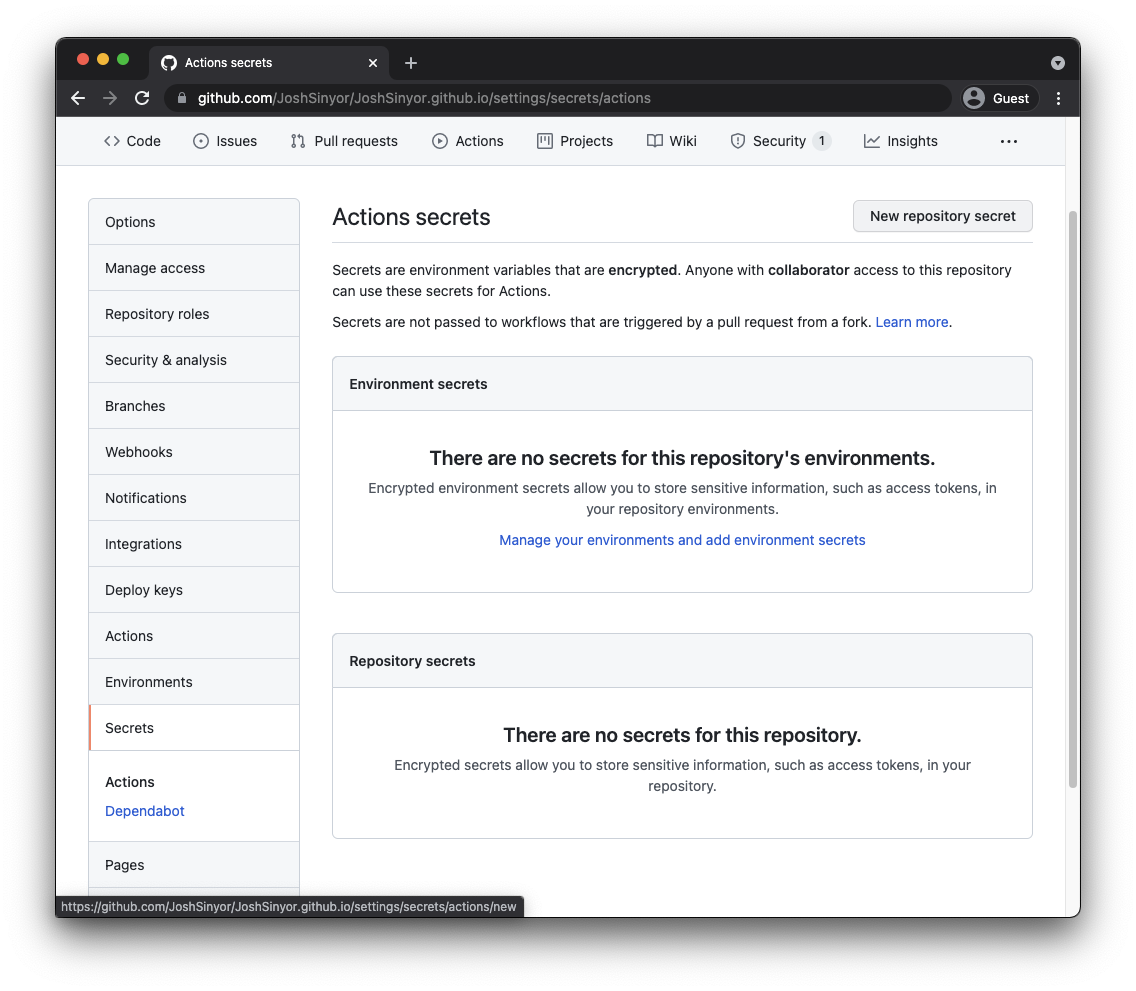
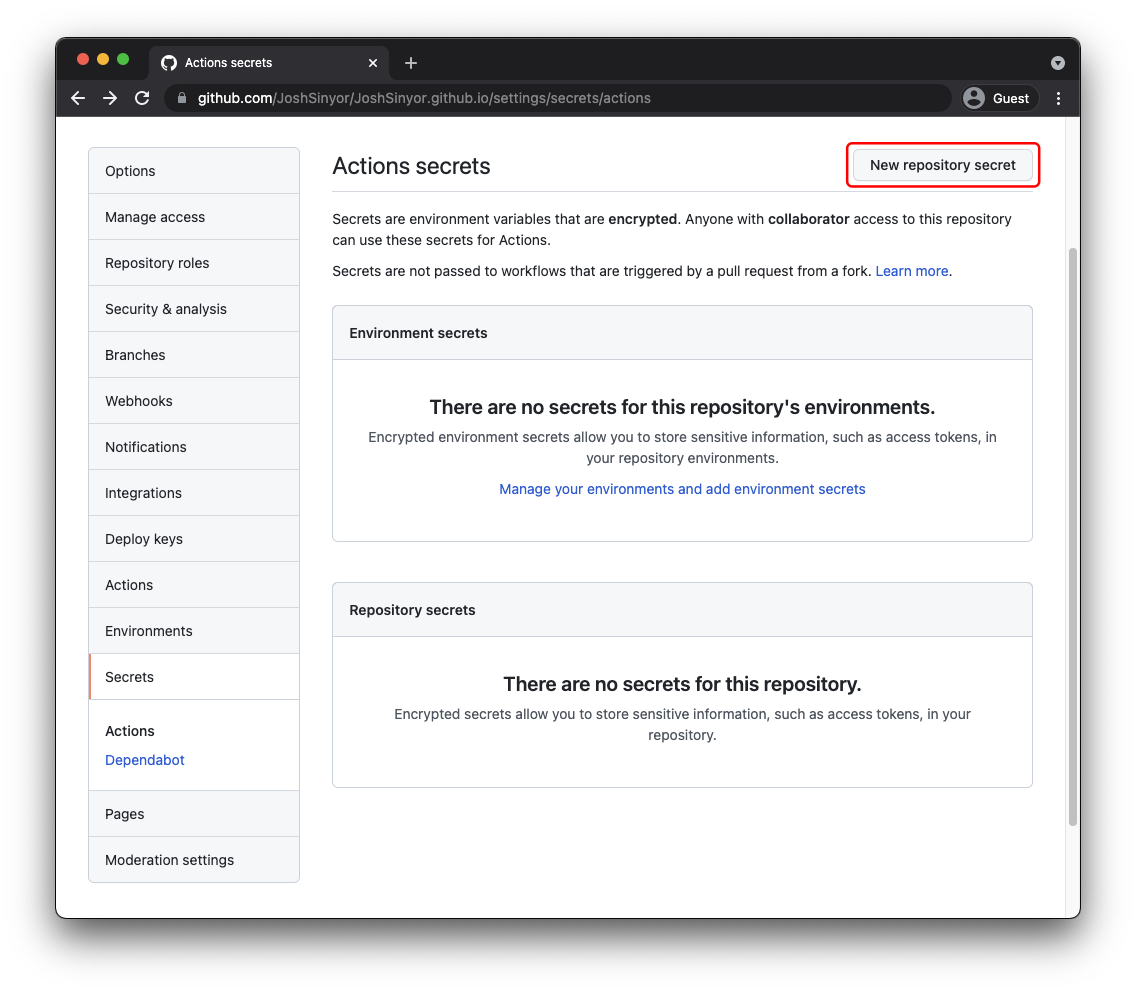
Update 2021-10-11-github-actions-and-github-pages.md and personal_access_token_03.png. Reflects progress on fifth post.

diff --git a/_posts/2021-10-11-github-actions-and-github-pages.md b/_posts/2021-10-11-github-actions-and-github-pages.md
@@ -12,13 +12,13 @@ TABLE OF CONTENTS
 
 ### Aims & Objectives
 
-My aims for this process are simple enough. I want:
+My aims for this Action are simple enough. I want:
 
 1. To keep my work in development branches until I think it's ready to deploy.
-2. To deploy it simply by pushing completed work to a branch.
+2. To deploy it simply by pushing completed work to the default branch.
 3. To have automated tests run before that commit appears on my live Page.
 4. To receive a warning if those tests aren't passed.
-5. Not have to pull down a new commit before resuming work on my local machine.
+5. Not to have to pull down a new commit before resuming work on my local machine.
 
 If that's not asking too much, I'd also like to work in a familiar environment and keep my security exposure to a minimum!
 
@@ -27,6 +27,10 @@ If that's not asking too much, I'd also like to work in a familiar environment a
 ### GitHub Actions Workflows
 
 GitHub Actions workflows are designed to be simple and easy to use. There's a pretty obvious flow to the work I want to do; first, I have to set up my environment, then run my tests, then deploy (or not, if the tests don't pass) my code to the branch Pages publishes. Here's the first steps of setting up the workflow - creating the environment. I started by creating [a file in the repository](https://github.com/JoshSinyor/JoshSinyor.github.io/blob/main/.github/workflows/deployment_ci.yml) in a following folder structure: `ROOT/.github/workflows/deployment_ci.yml`. This folder structure is mandatory.
+
+⚠ **Warning: GitHub Actions won't trigger on workflow files outside the default branch.** If you're using a different branch for testing changes to the Actions file(s), you'll need to change the default branch to that test branch.
+
+Here's the beginning of my workflow file:
 
 ```
 name: Test & Deploy
@@ -39,47 +43,38 @@ on:
 jobs:
   test_deploy:
     runs-on: macos-latest
-
-    steps:
-      - name: Checkout
-        uses: actions/checkout@v2
-
-      - name: Setup Environment
-        uses: ruby/setup-ruby@v1
-        with:
-          ruby-version: 2.7.3
 ```
-
-⚠ **Warning: GitHub Actions won't trigger on workflow files outside the default branch.** If you're using a different branch for testing changes to the Actions file(s), you'll need to change the default branch to that test branch.
 
 1. First, the workflow is named (`Test & Deploy`).
 2. Second, I define the condition (`on:`) that triggers the workflow - here, a push to the `main` branch. When I want to deploy content to my GitHub Pages, I'll push a commit to my `main` branch, which will trigger this workflow.
 3. Third, I define the container that GitHub will use to run the workflow. I'm used to working with OSX, so I chose `macos-latest`.
-4. Fourth, I set up my environment. Installed are `checkout@v2` - an interface between GitHub and the container - and Ruby. I specify the version of Ruby to match the version of Ruby contemporaneously [used by GitHub pages](https://pages.github.com/versions/).
+
+---
 
 #### Environment Variables
 
-Next I'll need to set and get some variables for later reference. A [fairly extensive list](https://docs.github.com/en/actions/learn-github-actions/environment-variables) of environmental variables are made available to users of GitHub Actions. In particular I'll want to set here (once, so I don't have to change each reference to them in the Action if I decide to use different branches or tokens later) the branches I'm pulling from (`main`, defined as `EMPLOY_BRANCH`) and the branch I'm pushing to (`gh-pages`, defined as `DEPLOY_BRANCH`). I'll also need to create an access token (defined as `DEPLOY_TOKEN`) to authorise the Ruby container to push to my repository; more information on this in the next section.
+Next I'll need to set and get some variables for later reference. A [fairly extensive list](https://docs.github.com/en/actions/learn-github-actions/environment-variables) of environmental variables are made available to users of GitHub Actions. In particular I'll want to set here (once, so I don't have to change each reference to them in the Action if I decide to use different branches or tokens later) the branches I'm pulling from (`main`, defined as `EMPLOY_BRANCH`) and the branch I'm pushing to (`gh-pages`, defined as `DEPLOY_BRANCH`). I'll also need to create an access token (defined as `DEPLOY_TOKEN`) to authorise the Ruby container to push to my repository; more information on this is in the next section.
 
-GitHub Actions environment variables are accessible at the workflow, job and step levels. I need these variables to be accessible through different steps, so they need to be defined at the job level (`jobs.test_deploy.env`).
+GitHub Actions environment variables are accessible at the workflow, job and step levels. I need these variables to be accessible in several different steps, so they need to be defined at the job level (`jobs.test_deploy.env`).
 
 ```
   env:
     EMPLOY_BRANCH: main
     DEPLOY_BRANCH: gh-pages
+    DEPLOY_TOKEN: ${{ secrets.ACTIONS_PAT }}
 ```
 
 GitHub Action environment variables need to be defined under the `env` keyword.
 
 #### Authentication
 
-Each run of my Action workflow requires setting up a container which I will use to push commits to my repository. For GitHub to accept pushes, that container will need to authenticate itself. There are several ways to do this, but the simplest is to use a [Personal Access Token](https://docs.github.com/en/authentication/keeping-your-account-and-data-secure/creating-a-personal-access-token) ('PAT') with a very limited scope. I could have also chosen an even more specialised authentication, like a [Deploy Key](https://docs.github.com/en/developers/overview/managing-deploy-keys). There are a few things to consider when allowing Actions to push to a repository:
+Each run of my Action workflow requires setting up a container which I will use to push commits to my repository. For GitHub to accept pushes, that container will need to authenticate itself. There are several ways to do this, but the simplest is to use a [Personal Access Token](https://docs.github.com/en/authentication/keeping-your-account-and-data-secure/creating-a-personal-access-token) ('PAT') with a very limited scope. There are a few things to consider when allowing Actions to push to a repository:
 
 ⚠ **This choice has security implications.** This Action will be running automatically and without direct oversight. It's important that the access granted is as limited in scope as possible; I don't want a bad actor exploiting it to gain access to my GitHub account. This is the number one reason I chose to write this aspect of my Action myself, rather than using any of the numerous off-the-shelf Action components available on the [Marketplace](https://github.com/marketplace?type=actions): I want complete oversight of the code I allow authenticated access to my repository.
 
-⚠ **Personal Access Tokens can only authenticate via HTTPS, not SSH.** My Action's Ruby instance is therefore configured to push via HTTPS, not SSH. This doesn't affect any other instances of my repository - my local machines can continue to authenticate pushes and pulls to and from this repository using SSH. Deploy Keys can use SSH or OAuth tokens if HTTPS isn't appropriate.
+⚠ **Personal Access Tokens can only authenticate via HTTPS, not SSH.** My Action's Ruby instance is therefore configured to push via HTTPS, not SSH. This doesn't affect any other instances of my repository - my local machines can continue to authenticate pushes and pulls to and from this repository using SSH.
 
-For this situation, a limited-scope PAT was ideal. To create a new PAT, navigate to the [Personal access tokens subsection](https://github.com/settings/tokens) of the Developer settings section of your profile's Settings tab. Then, select Generate new token.
+To create a new PAT, navigate to the [Personal access tokens subsection](https://github.com/settings/tokens) of the Developer settings section of your profile's Settings tab. Then, select Generate new token.
 
 ![Generating a New Personal Access Token](/images/2021-10-11/personal_access_token_01.png)
 
@@ -93,26 +88,66 @@ Next, click Generate token. You'll be presented with your new token's hash; this
 
 ⚠ **Do not share PATs between repositories!** If a single PAT is somehow compromised, you can delete it and update the single dependent repository. Using a repository-specific PAT allows you to limit the PAT's scope to the absolute minimum required by that individual repository.
 
+Having copied the token's hash, navigate to the Secrets subsection of your repository's Settings tab, and select New repository secret.
+
 ![Adding a Secret](/images/2021-10-11/personal_access_token_03.png)
 
-```
-  env:
-    DEPLOY_TOKEN: ${{ secrets.ACTIONS_PAT }}
-```
+In the New secret page, name the token how you'll want to refer to it in the workflow, paste the PAT's hash in the Value box, and select Add secret.
+
+![New Secret](/images/2021-10-11/personal_access_token_04.png)
+
+You'll see the token listed in the repository's Secrets.
+
+![Repository Secret](/images/2021-10-11/personal_access_token_04.png)
+
+Finally, as above I'll need to add the token to the environmental variables already listed in the workflow.
+
+⚠ **We will return to PATs later on to further restrict their scope.**
 
 ---
 
 ### Setting Up the Environment
 
+My workflow will run in a Ruby environment inside the OSX container, so I need to install Ruby and a way for with workflow to interface with it within OSX.
+
 #### Installing Ruby
 
+Installed is `checkout@v2` - an interface between GitHub and the container. - and Ruby. I specify the version of Ruby to match the version of Ruby contemporaneously [used by GitHub pages](https://pages.github.com/versions/). Here are the first steps of the job:
+
+```
+    steps:
+      - name: Checkout
+        uses: actions/checkout@v2
+
+      - name: Setup Environment
+        uses: ruby/setup-ruby@v1
+        with:
+          ruby-version: 2.7.3
+```
+
 #### Installing Gems
+
+Having installed Ruby, it's time to install the gems required for my testing (which will rely on Rubocop and RSpec) to work. `setup-ruby@v1` automatically installs the Bundler gem, so the next step can simply command the installation of the repository's gems. This repository's Gemfile includes Jekyll strictly for local development - it's not required for testing, so it can be specifically excluded from the Action's installation. Here's the next step of the job:
+
+```
+      - name: Install Gems
+        run: |
+          bundle config set --local without 'jekyll jekyll_plugins'
+          bundle install
+```
 
 ---
 
 ### Running the Test Suite
 
-#### Failing Tests
+Running the test suite is as simple as running the commands as you would in any local machine's terminal.
+
+```
+      - name: Run Tests
+        run: |
+          rubocop
+          rspec
+```
 
 ---
 
